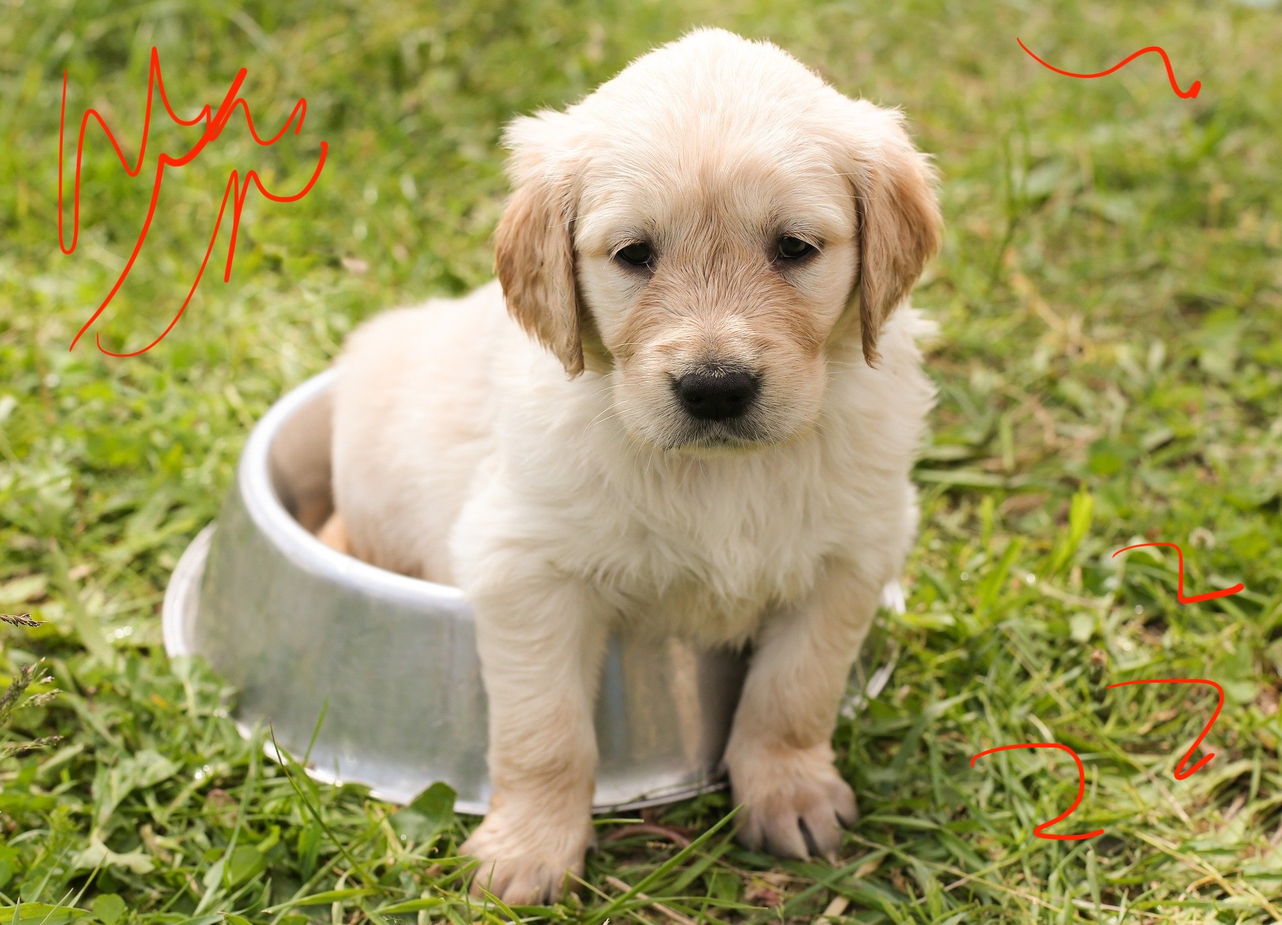
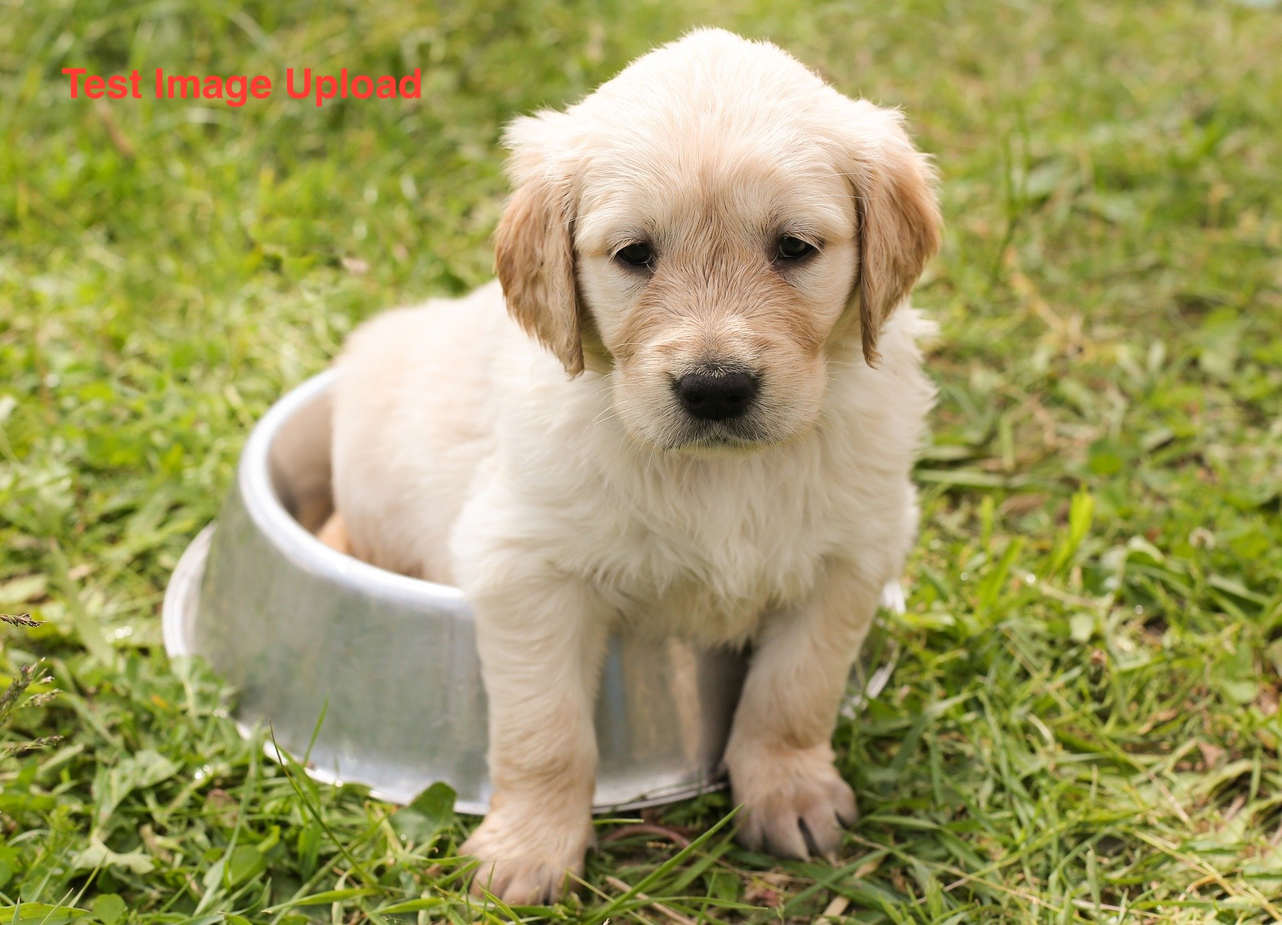
Edit image

diff --git a/site/sfguides/src/get-started-with-guides/get-started-with-guides.md b/site/sfguides/src/get-started-with-guides/get-started-with-guides.md
@@ -34,15 +34,13 @@ Please use [this markdown file](https://github.com/Snowflake-Labs/sfquickstarts/
 - A [GitHub](https://github.com/) Account 
 - (OPTIONAL) A code editor like [VSCode](https://code.visualstudio.com/download) if you choose to edit locally
 
-
 ### What You’ll Build 
 Once you complete this guide, you should be able to create your "Snowflake Guide" and submit it using the updated process.
-Test line
 
-### Test Images
+### Test Images (Update image)
 ![Synthetic Data Generator Demo](assets/puppy.jpg)
 
-### Test Image3
+### Test Images 2 (New Image)
 ![Test Image](assets/puppy01.jpg)
 
 At a minimum, the Guide should include the following headings and subheadings. A single sfguide consists of multiple steps. 
